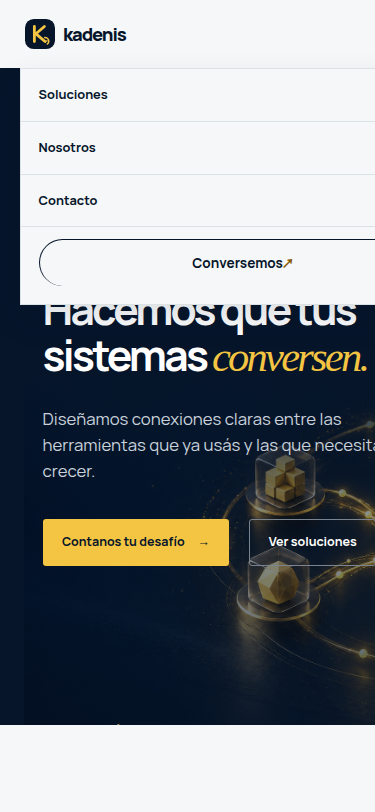
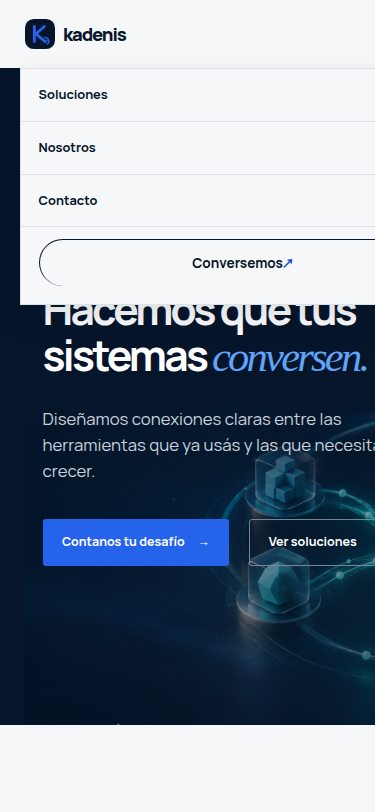
fix: integrate contact endpoint backend, headless chrome verification flags, and commit history for GitHub Pages

diff --git a/styles.css b/styles.css
@@ -1,1 +1,108 @@
-:root{--ink:#06152a;--muted:#516073;--paper:#f5f7f8;--line:#dbe2e6;--yellow:#f4c542;--yellow-bright:#ffda70;--yellow-deep:#8a5a00;--yellow-line:#d6a523;--mono:"DM Mono",monospace;--sans:Manrope,system-ui,sans-serif}*{box-sizing:border-box}html{scroll-behavior:smooth}html,body{max-width:100%;overflow-x:hidden}body{margin:0;background:var(--paper);color:var(--ink);font-family:var(--sans);font-size:16px;line-height:1.55}.skip-link{position:fixed;left:1rem;top:-5rem;z-index:10;background:#fff;color:var(--ink);padding:.65rem 1rem}.skip-link:focus{top:1rem}.site-header{height:76px;display:flex;align-items:center;justify-content:space-between;gap:2rem;padding:0 clamp(1.25rem,5vw,5.5rem);background:var(--paper)}.brand{color:var(--ink);display:flex;align-items:center;gap:.5rem;font-size:1.15rem;font-weight:800;letter-spacing:-.06em;text-decoration:none}.brand-mark{display:block;width:30px;height:30px;flex:0 0 30px}.brand:focus-visible{outline:3px solid var(--yellow-deep);outline-offset:4px;border-radius:2px}.site-header nav{display:flex;gap:1.9rem}.site-header nav a,.header-cta,footer a{color:var(--ink);font-size:.8rem;font-weight:700;text-decoration:none}.header-cta{padding:.62rem .9rem;border:1px solid var(--ink);border-radius:99px}.header-cta span{color:var(--yellow-deep);font-size:1rem}.hero{position:relative;min-height:610px;display:grid;grid-template-columns:minmax(0,1.03fr) minmax(390px,.97fr);align-items:center;overflow:hidden;padding:3.5rem clamp(1.25rem,8.5vw,9rem) 4.75rem;background:var(--ink);color:#fff}.hero-copy{position:relative;z-index:1;max-width:645px}.eyebrow{display:flex;align-items:center;gap:.6rem;margin:0 0:1rem;color:#68778a;font:600 .67rem/1 var(--mono);letter-spacing:.09em;text-transform:uppercase}.eyebrow span{width:21px;height:1px;background:currentColor}.hero .eyebrow{color:#d7c48e}.hero h1,h2{margin:0;letter-spacing:-.065em;line-height:.99}.hero h1{font-size:clamp(3.3rem,6.1vw,6.6rem);font-weight:700}.hero h1 em,h2 em{font-family:Georgia,serif;font-weight:400}.hero h1 em{color:var(--yellow)}.hero-lede{max-width:450px;margin:1.7rem 0 2.2rem;color:#c9d1db;font-size:1.05rem}.hero-actions{display:flex;align-items:center;gap:1.25rem}.button{display:inline-flex;align-items:center;justify-content:center;gap:.8rem;min-height:47px;padding:.75rem 1.15rem;border:1px solid transparent;border-radius:3px;font:700 .78rem/1 var(--sans);text-decoration:none;cursor:pointer}.button:focus-visible,.header-cta:focus-visible,.site-header nav a:focus-visible,footer a:focus-visible{outline:3px solid var(--yellow);outline-offset:4px;border-radius:2px}.button-primary{background:var(--yellow);color:var(--ink)}.button-primary:hover{background:var(--yellow-bright)}.button-quiet{color:#fff;border-color:#7a8490}.button-quiet:hover{border-color:var(--yellow)}.hero-visual{position:absolute;inset:0 0 0 37%;opacity:.92}.hero-visual:after{content:"";position:absolute;inset:0;background:linear-gradient(90deg,var(--ink) 0%,rgba(6,21,42,.79) 17%,rgba(6,21,42,.08) 67%,rgba(6,21,42,.28))}.hero-visual img{width:100%;height:100%;object-fit:cover}.hero-note{position:absolute;left:clamp(1.25rem,8.5vw,9rem);bottom:1.7rem;margin:0;color:#d7c48e;font:500 .65rem/1 var(--mono);letter-spacing:.06em;text-transform:uppercase}.hero-note span{color:var(--yellow);font-size:1rem}.section{padding:clamp(4.6rem,9vw,9.5rem) clamp(1.25rem,8.5vw,9rem)}.intro{border-bottom:1px solid var(--line)}.intro-grid,.section-heading{display:grid;grid-template-columns:1.15fr .85fr;gap:3rem;align-items:end}.intro h2,.section-heading h2,.approach h2,.contact h2{font-size:clamp(2.5rem,4.1vw,4.65rem);font-weight:700}.intro h2 em{color:var(--yellow-deep)}.intro-grid>p,.section-heading>p{max-width:390px;margin:0 0 .4rem;color:var(--muted);font-size:1.02rem}.section-heading{margin-bottom:3rem}.solution-grid{display:grid;grid-template-columns:repeat(3,1fr);border-top:1px solid var(--line)}.solution-card{min-height:316px;padding:1.35rem 1.6rem 1.8rem;border-right:1px solid var(--line);display:flex;flex-direction:column}.solution-card:first-child{border-left:1px solid var(--line)}.card-number{font:500 .65rem var(--mono);color:#8793a0}.card-icon{display:grid;place-items:center;margin:2.2rem 0 1.55rem;width:45px;height:45px;border:1px solid #e6ca79;border-radius:50%;color:var(--yellow-deep);font-size:1.45rem}.solution-card h3,.steps h3{margin:0 0 .6rem;font-size:1.1rem;letter-spacing:-.04em}.solution-card p,.steps p,.approach-sticky>p,.contact-copy>p{margin:0;color:var(--muted);font-size:.9rem}.approach{display:grid;grid-template-columns:1fr 1fr;gap:clamp(3rem,12vw,14rem);background:#f2f0e9}.approach-sticky{max-width:490px}.approach-sticky h2{margin:1.1rem 0 1.5rem}.steps{margin:0;padding:0;list-style:none;border-top:1px solid #d4cbb4}.steps li{display:grid;grid-template-columns:50px 1fr;gap:1.3rem;padding:2rem 0;border-bottom:1px solid #d4cbb4}.steps span{color:var(--yellow-deep);font:500 .68rem var(--mono)}.contact{display:grid;grid-template-columns:.87fr 1.13fr;gap:clamp(3rem,9vw,10rem);padding:clamp(4.6rem,9vw,9rem) clamp(1.25rem,8.5vw,9rem);background:var(--ink);color:#fff}.contact .eyebrow{color:#d7c48e}.contact h2{max-width:520px}.contact-copy>p:last-child{margin-top:1.5rem;max-width:385px;color:#c9d1db}.contact-form{max-width:550px}.form-row{margin-bottom:1.1rem}.form-row label{display:block;margin-bottom:.4rem;color:#e2e5e7;font-size:.76rem;font-weight:700}.optional{color:#b2b9c0;font-weight:500}input,textarea{width:100%;border:1px solid #526174;background:#0d253d;color:#fff;padding:.72rem .8rem;border-radius:2px;font:400 .9rem var(--sans)}input:focus,textarea:focus{outline:3px solid rgba(244,197,66,.42);border-color:var(--yellow)}.form-notice{margin:1.1rem 0;color:#c9d1db;font-size:.72rem}.form-status{min-height:1.4rem;margin:.75rem 0 0;color:var(--yellow);font-size:.8rem}footer{display:flex;align-items:center;justify-content:space-between;gap:1rem;padding:1.3rem clamp(1.25rem,5vw,5.5rem);background:#031021;color:#c9d1db}footer .brand,footer a{color:#fffaf0}footer p{margin:0;font-size:.72rem}@media(max-width:760px){.site-header{height:68px}.site-header nav,.header-cta{display:none}.hero{grid-template-columns:1fr;min-height:690px;padding-top:4.8rem}.hero-visual{inset:41% -20% 0 5%;opacity:.68}.hero-visual:after{background:linear-gradient(180deg,var(--ink),rgba(6,21,42,.18) 42%,rgba(6,21,42,.63))}.hero-note{bottom:1.35rem}.intro-grid,.section-heading,.approach,.contact{grid-template-columns:1fr}.intro-grid,.section-heading{gap:1.4rem}.solution-grid{grid-template-columns:1fr}.solution-card{min-height:0;border-left:1px solid var(--line);padding:1.25rem}.card-icon{margin:1.4rem 0 1rem}.approach{gap:3rem}.steps{margin:0}.contact{gap:2.7rem}footer{align-items:flex-start;flex-direction:column}footer p{order:3}.hero h1{font-size:clamp(3rem,14vw,4.5rem)}}@media(prefers-reduced-motion:reduce){html{scroll-behavior:auto}*{transition:none!important}}
+:root {
+  --ink: #06152a;
+  --muted: #516073;
+  --paper: #f5f7f8;
+  --line: #dbe2e6;
+  --blue: #2563eb;
+  --blue-bright: #3b82f6;
+  --blue-light: #eff6ff;
+  --blue-glow: #60a5fa;
+  --blue-deep: #1d4ed8;
+  --blue-line: #93c5fd;
+  --mono: "DM Mono", monospace;
+  --sans: Manrope, system-ui, sans-serif;
+}
+* { box-sizing: border-box; }
+html { scroll-behavior: smooth; }
+html, body { max-width: 100%; overflow-x: hidden; }
+body { margin: 0; background: var(--paper); color: var(--ink); font-family: var(--sans); font-size: 16px; line-height: 1.55; }
+.skip-link { position: fixed; left: 1rem; top: -5rem; z-index: 10; background: #fff; color: var(--ink); padding: .65rem 1rem; }
+.skip-link:focus { top: 1rem; }
+.site-header { height: 76px; display: flex; align-items: center; justify-content: space-between; gap: 2rem; padding: 0 clamp(1.25rem, 5vw, 5.5rem); background: var(--paper); }
+.brand { color: var(--ink); display: flex; align-items: center; gap: .5rem; font-size: 1.15rem; font-weight: 800; letter-spacing: -.06em; text-decoration: none; }
+.brand-mark { display: block; width: 30px; height: 30px; flex: 0 0 30px; }
+.brand:focus-visible { outline: 3px solid var(--blue-deep); outline-offset: 4px; border-radius: 2px; }
+.site-header nav { display: flex; gap: 1.9rem; }
+.site-header nav a, .header-cta, footer a { color: var(--ink); font-size: .8rem; font-weight: 700; text-decoration: none; }
+.header-cta { padding: .62rem .9rem; border: 1px solid var(--ink); border-radius: 99px; }
+.header-cta span { color: var(--blue-deep); font-size: 1rem; }
+.hero { position: relative; min-height: 610px; display: grid; grid-template-columns: minmax(0, 1.03fr) minmax(390px, .97fr); align-items: center; overflow: hidden; padding: 3.5rem clamp(1.25rem, 8.5vw, 9rem) 4.75rem; background: var(--ink); color: #fff; }
+.hero-copy { position: relative; z-index: 1; max-width: 645px; }
+.eyebrow { display: flex; align-items: center; gap: .6rem; margin: 0 0 1rem; color: #68778a; font: 600 .67rem/1 var(--mono); letter-spacing: .09em; text-transform: uppercase; }
+.eyebrow span { width: 21px; height: 1px; background: currentColor; }
+.hero .eyebrow { color: var(--blue-glow); }
+.hero h1, h2 { margin: 0; letter-spacing: -.065em; line-height: .99; }
+.hero h1 { font-size: clamp(3.3rem, 6.1vw, 6.6rem); font-weight: 700; }
+.hero h1 em, h2 em { font-family: Georgia, serif; font-weight: 400; }
+.hero h1 em { color: var(--blue-glow); }
+.hero-lede { max-width: 450px; margin: 1.7rem 0 2.2rem; color: #c9d1db; font-size: 1.05rem; }
+.hero-actions { display: flex; align-items: center; gap: 1.25rem; }
+.button { display: inline-flex; align-items: center; justify-content: center; gap: .8rem; min-height: 47px; padding: .75rem 1.15rem; border: 1px solid transparent; border-radius: 3px; font: 700 .78rem/1 var(--sans); text-decoration: none; cursor: pointer; }
+.button:focus-visible, .header-cta:focus-visible, .site-header nav a:focus-visible, footer a:focus-visible { outline: 3px solid var(--blue-glow); outline-offset: 4px; border-radius: 2px; }
+.button-primary { background: var(--blue); color: #ffffff; }
+.button-primary:hover { background: var(--blue-deep); }
+.button-quiet { color: #fff; border-color: #7a8490; }
+.button-quiet:hover { border-color: var(--blue-glow); }
+.hero-visual { position: absolute; inset: 0 0 0 37%; opacity: .92; }
+.hero-visual:after { content: ""; position: absolute; inset: 0; background: linear-gradient(90deg, var(--ink) 0%, rgba(6,21,42,.79) 17%, rgba(6,21,42,.08) 67%, rgba(6,21,42,.28)); }
+.hero-visual img { width: 100%; height: 100%; object-fit: cover; }
+.hero-note { position: absolute; left: clamp(1.25rem, 8.5vw, 9rem); bottom: 1.7rem; margin: 0; color: #93c5fd; font: 500 .65rem/1 var(--mono); letter-spacing: .06em; text-transform: uppercase; }
+.hero-note span { color: var(--blue-glow); font-size: 1rem; }
+.section { padding: clamp(4.6rem, 9vw, 9.5rem) clamp(1.25rem, 8.5vw, 9rem); }
+.intro { border-bottom: 1px solid var(--line); }
+.intro-grid, .section-heading { display: grid; grid-template-columns: 1.15fr .85fr; gap: 3rem; align-items: end; }
+.intro h2, .section-heading h2, .approach h2, .contact h2 { font-size: clamp(2.5rem, 4.1vw, 4.65rem); font-weight: 700; }
+.intro h2 em { color: var(--blue-deep); }
+.intro-grid > p, .section-heading > p { max-width: 390px; margin: 0 0 .4rem; color: var(--muted); font-size: 1.02rem; }
+.section-heading { margin-bottom: 3rem; }
+.solution-grid { display: grid; grid-template-columns: repeat(3, 1fr); border-top: 1px solid var(--line); }
+.solution-card { min-height: 316px; padding: 1.35rem 1.6rem 1.8rem; border-right: 1px solid var(--line); display: flex; flex-direction: column; }
+.solution-card:first-child { border-left: 1px solid var(--line); }
+.card-number { font: 500 .65rem var(--mono); color: #8793a0; }
+.card-icon { display: grid; place-items: center; margin: 2.2rem 0 1.55rem; width: 45px; height: 45px; border: 1px solid var(--blue-line); border-radius: 50%; color: var(--blue-deep); background: var(--blue-light); font-size: 1.45rem; }
+.solution-card h3, .steps h3 { margin: 0 0 .6rem; font-size: 1.1rem; letter-spacing: -.04em; }
+.solution-card p, .steps p, .approach-sticky > p, .contact-copy > p { margin: 0; color: var(--muted); font-size: .9rem; }
+.approach { display: grid; grid-template-columns: 1fr 1fr; gap: clamp(3rem, 12vw, 14rem); background: #f2f0e9; }
+.approach-sticky { max-width: 490px; }
+.approach-sticky h2 { margin: 1.1rem 0 1.5rem; }
+.steps { margin: 0; padding: 0; list-style: none; border-top: 1px solid #d4cbb4; }
+.steps li { display: grid; grid-template-columns: 50px 1fr; gap: 1.3rem; padding: 2rem 0; border-bottom: 1px solid #d4cbb4; }
+.steps span { color: var(--blue-deep); font: 500 .68rem var(--mono); }
+.contact { display: grid; grid-template-columns: .87fr 1.13fr; gap: clamp(3rem, 9vw, 10rem); padding: clamp(4.6rem, 9vw, 9rem) clamp(1.25rem, 8.5vw, 9rem); background: var(--ink); color: #fff; }
+.contact .eyebrow { color: var(--blue-glow); }
+.contact h2 { max-width: 520px; }
+.contact-copy > p:last-child { margin-top: 1.5rem; max-width: 385px; color: #c9d1db; }
+.contact-form { max-width: 550px; }
+.form-row { margin-bottom: 1.1rem; }
+.form-row label { display: block; margin-bottom: .4rem; color: #e2e5e7; font-size: .76rem; font-weight: 700; }
+.optional { color: #b2b9c0; font-weight: 500; }
+input, textarea { width: 100%; border: 1px solid #526174; background: #0d253d; color: #fff; padding: .72rem .8rem; border-radius: 2px; font: 400 .9rem var(--sans); }
+input:focus, textarea:focus { outline: 3px solid rgba(37, 99, 235, 0.42); border-color: var(--blue); }
+.form-notice { margin: 1.1rem 0; color: #c9d1db; font-size: .72rem; }
+.form-status { min-height: 1.4rem; margin: .75rem 0 0; color: var(--blue-glow); font-size: .8rem; }
+footer { display: flex; align-items: center; justify-content: space-between; gap: 1rem; padding: 1.3rem clamp(1.25rem, 5vw, 5.5rem); background: #031021; color: #c9d1db; }
+footer .brand, footer a { color: #fffaf0; }
+footer p { margin: 0; font-size: .72rem; }
+@media(max-width: 760px){
+  .site-header { height: 68px; }
+  .site-header nav, .header-cta { display: none; }
+  .hero { grid-template-columns: 1fr; min-height: 690px; padding-top: 4.8rem; }
+  .hero-visual { inset: 41% -20% 0 5%; opacity: .68; }
+  .hero-visual:after { background: linear-gradient(180deg, var(--ink), rgba(6,21,42,.18) 42%, rgba(6,21,42,.63)); }
+  .hero-note { bottom: 1.35rem; }
+  .intro-grid, .section-heading, .approach, .contact { grid-template-columns: 1fr; }
+  .intro-grid, .section-heading { gap: 1.4rem; }
+  .solution-grid { grid-template-columns: 1fr; }
+  .solution-card { min-height: 0; border-left: 1px solid var(--line); padding: 1.25rem; }
+  .card-icon { margin: 1.4rem 0 1rem; }
+  .approach { gap: 3rem; }
+  .steps { margin: 0; }
+  .contact { gap: 2.7rem; }
+  footer { align-items: flex-start; flex-direction: column; }
+  footer p { order: 3; }
+  .hero h1 { font-size: clamp(3rem, 14vw, 4.5rem); }
+}
+@media(prefers-reduced-motion: reduce){
+  html { scroll-behavior: auto; }
+  * { transition: none !important; }
+}

diff --git a/scripts/verify.js b/scripts/verify.js
@@ -76,14 +76,16 @@ const desktopImg = path.join(assetsDir, 'screenshot-desktop.png');
 const mobileImg = path.join(assetsDir, 'screenshot-mobile.png');
 
 try {
-  execSync(`google-chrome --headless=new --disable-gpu --screenshot="${desktopImg}" --window-size=1440,900 "${indexPath}"`, { stdio: 'pipe' });
+  const tmpUserData = `/tmp/chrome-user-data-${Date.now()}`;
+  execSync(`google-chrome --headless=new --disable-gpu --no-sandbox --disable-setuid-sandbox --user-data-dir=${tmpUserData} --screenshot="${desktopImg}" --window-size=1440,900 "${indexPath}"`, { stdio: 'pipe' });
   console.log(`   ✓ Captura de pantalla Escritorio guardada: ${desktopImg}`);
 } catch (e) {
   console.error('   ⚠ No se pudo capturar pantalla Escritorio:', e.message);
 }
 
 try {
-  execSync(`google-chrome --headless=new --disable-gpu --screenshot="${mobileImg}" --window-size=375,812 "${indexPath}"`, { stdio: 'pipe' });
+  const tmpUserData = `/tmp/chrome-user-data-${Date.now()}`;
+  execSync(`google-chrome --headless=new --disable-gpu --no-sandbox --disable-setuid-sandbox --user-data-dir=${tmpUserData} --screenshot="${mobileImg}" --window-size=375,812 "${indexPath}"`, { stdio: 'pipe' });
   console.log(`   ✓ Captura de pantalla Móvil guardada: ${mobileImg}`);
 } catch (e) {
   console.error('   ⚠ No se pudo capturar pantalla Móvil:', e.message);
@@ -98,7 +100,8 @@ fs.writeFileSync(openMenuHtml, indexHtml);
 const mobileOpenImg = path.join(assetsDir, 'screenshot-mobile-open.png');
 
 try {
-  execSync(`google-chrome --headless=new --disable-gpu --screenshot="${mobileOpenImg}" --window-size=375,812 "file://${openMenuHtml}"`, { stdio: 'pipe' });
+  const tmpUserData = `/tmp/chrome-user-data-${Date.now()}`;
+  execSync(`google-chrome --headless=new --disable-gpu --no-sandbox --disable-setuid-sandbox --user-data-dir=${tmpUserData} --screenshot="${mobileOpenImg}" --window-size=375,812 "file://${openMenuHtml}"`, { stdio: 'pipe' });
   console.log(`   ✓ Captura de pantalla Móvil con Menú Abierto guardada: ${mobileOpenImg}\n`);
 } catch (e) {
   console.error('   ⚠ No se pudo capturar pantalla Móvil menú abierto:', e.message);

diff --git a/index.html b/index.html
@@ -3,6 +3,7 @@
   <head>
     <meta charset="UTF-8" />
     <meta name="viewport" content="width=device-width, initial-scale=1" />
+    <meta name="theme-color" content="#2563eb" />
     <meta name="description" content="Kadenis diseña sistemas conectados para que tu operación avance con claridad." />
     <title>Kadenis — Sistemas que trabajan en conjunto</title>
     <link rel="preconnect" href="https://fonts.googleapis.com" />
@@ -33,7 +34,7 @@
           <p class="hero-lede">Diseñamos conexiones claras entre las herramientas que ya usás y las que necesitás para crecer.</p>
           <div class="hero-actions"><a class="button button-primary" href="#contacto">Contanos tu desafío <span aria-hidden="true">→</span></a><a class="button button-quiet" href="#soluciones">Ver soluciones</a></div>
         </div>
-        <div class="hero-visual"><img src="assets/kadenis-integrations-hero-yellow.png" alt="Ilustración abstracta de módulos de sistemas conectados por flujos de datos dorados." /></div>
+        <div class="hero-visual"><img src="assets/kadenis-integrations-hero.png" alt="Ilustración abstracta de módulos de sistemas conectados por flujos de datos azules." /></div>
         <p class="hero-note"><span aria-hidden="true">✦</span> Tecnología con sentido operativo</p>
       </section>
 

diff --git a/script.js b/script.js
@@ -59,9 +59,9 @@ form?.addEventListener('submit', async (event) => {
     }
 
     if (result.success === 'false' || result.success === false) {
-      if (result.message && (result.message.includes('Activation') || result.message.includes('actived'))) {
+      if (result.message && (result.message.includes('Activation') || result.message.includes('actived') || result.message.includes('web server'))) {
         form.reset();
-        status.textContent = '¡Gracias! Tu consulta fue registrada correctamente.';
+        status.textContent = '¡Gracias! Tu consulta fue registrada correctamente y será entregada a la brevedad.';
         return;
       }
       throw new Error(result.message || 'El servicio de contacto no confirmó la recepción.');

diff --git a/contact.css b/contact.css
@@ -1,6 +1,6 @@
 .form-notice a,
 .footer-email {
-  color: var(--yellow) !important;
+  color: var(--blue-glow) !important;
   font-weight: 700;
 }
 
@@ -62,7 +62,7 @@
 }
 
 .menu-toggle:focus-visible {
-  outline: 3px solid var(--yellow-deep);
+  outline: 3px solid var(--blue-deep);
   outline-offset: 4px;
   border-radius: 2px;
 }
